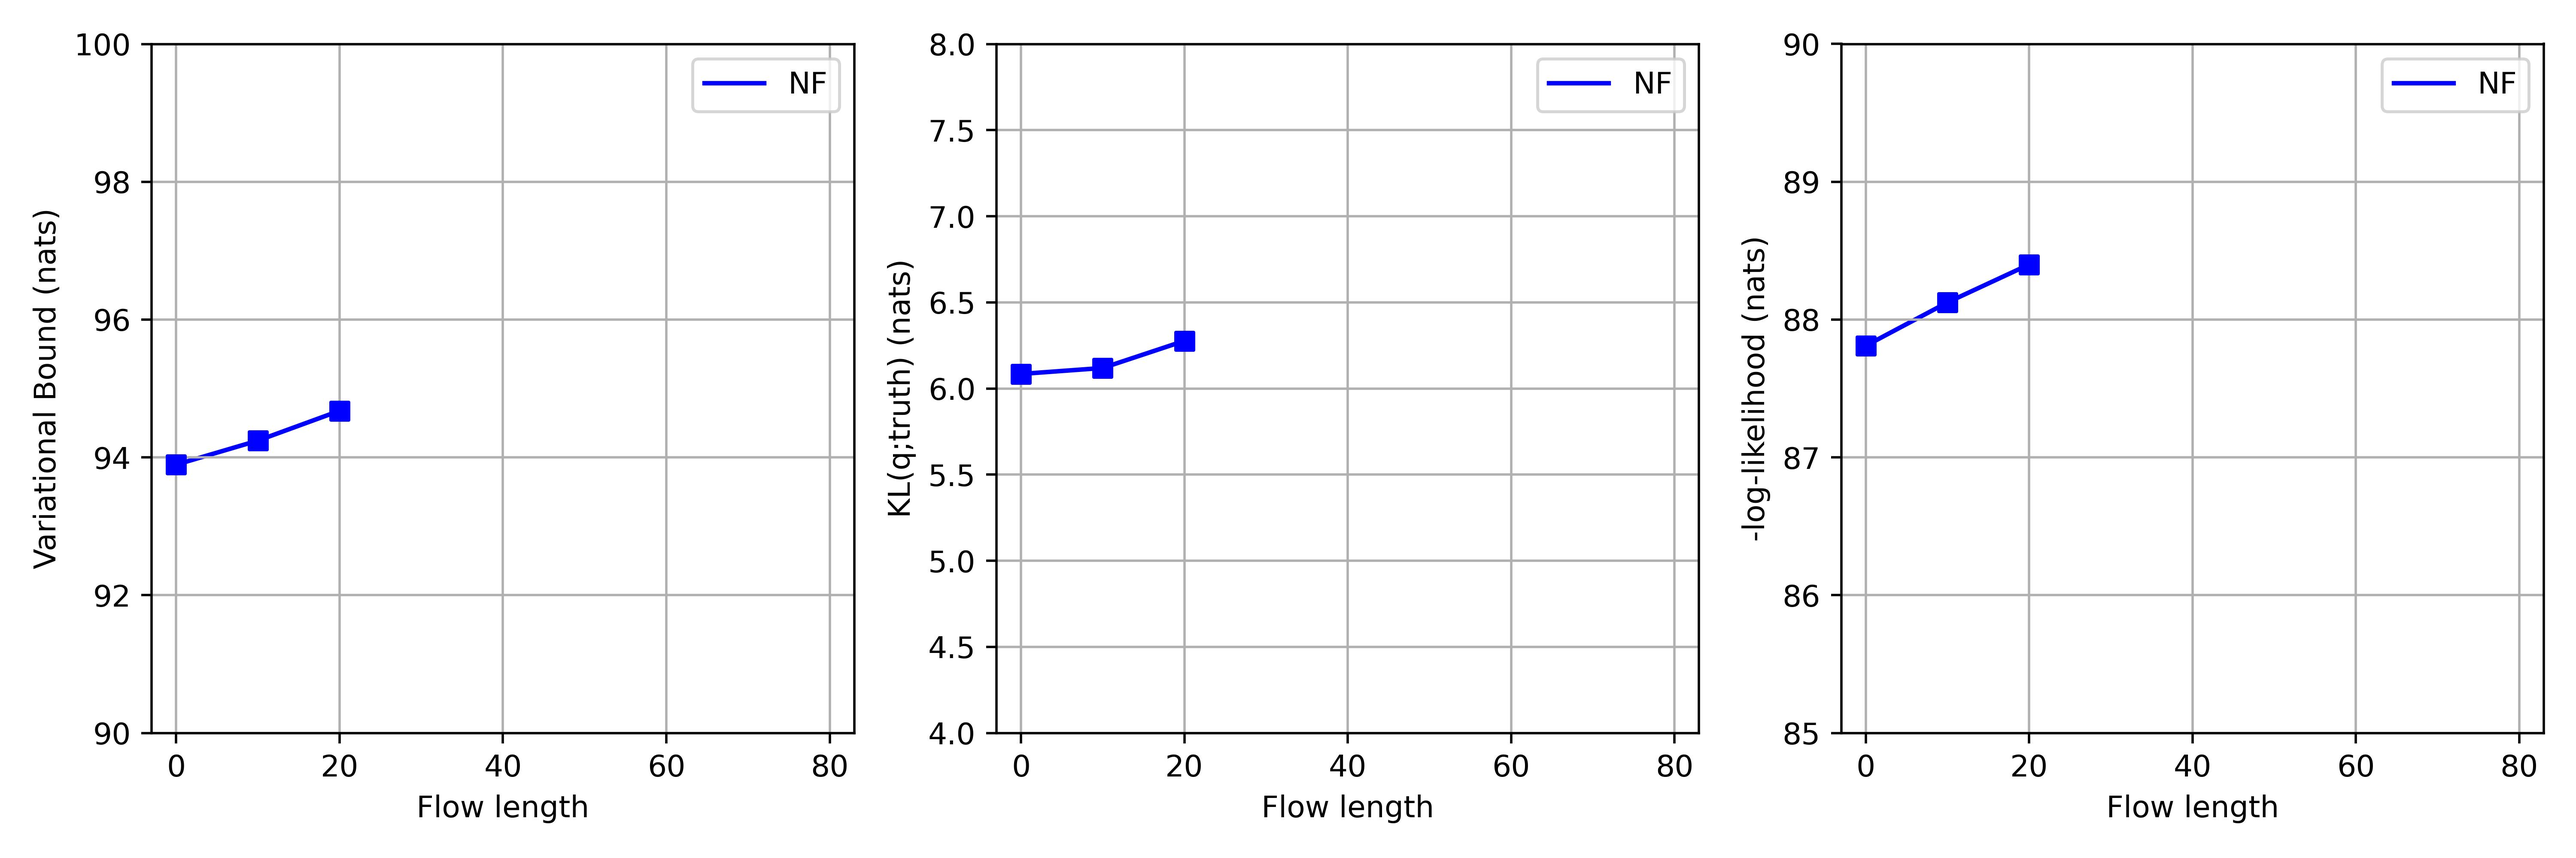
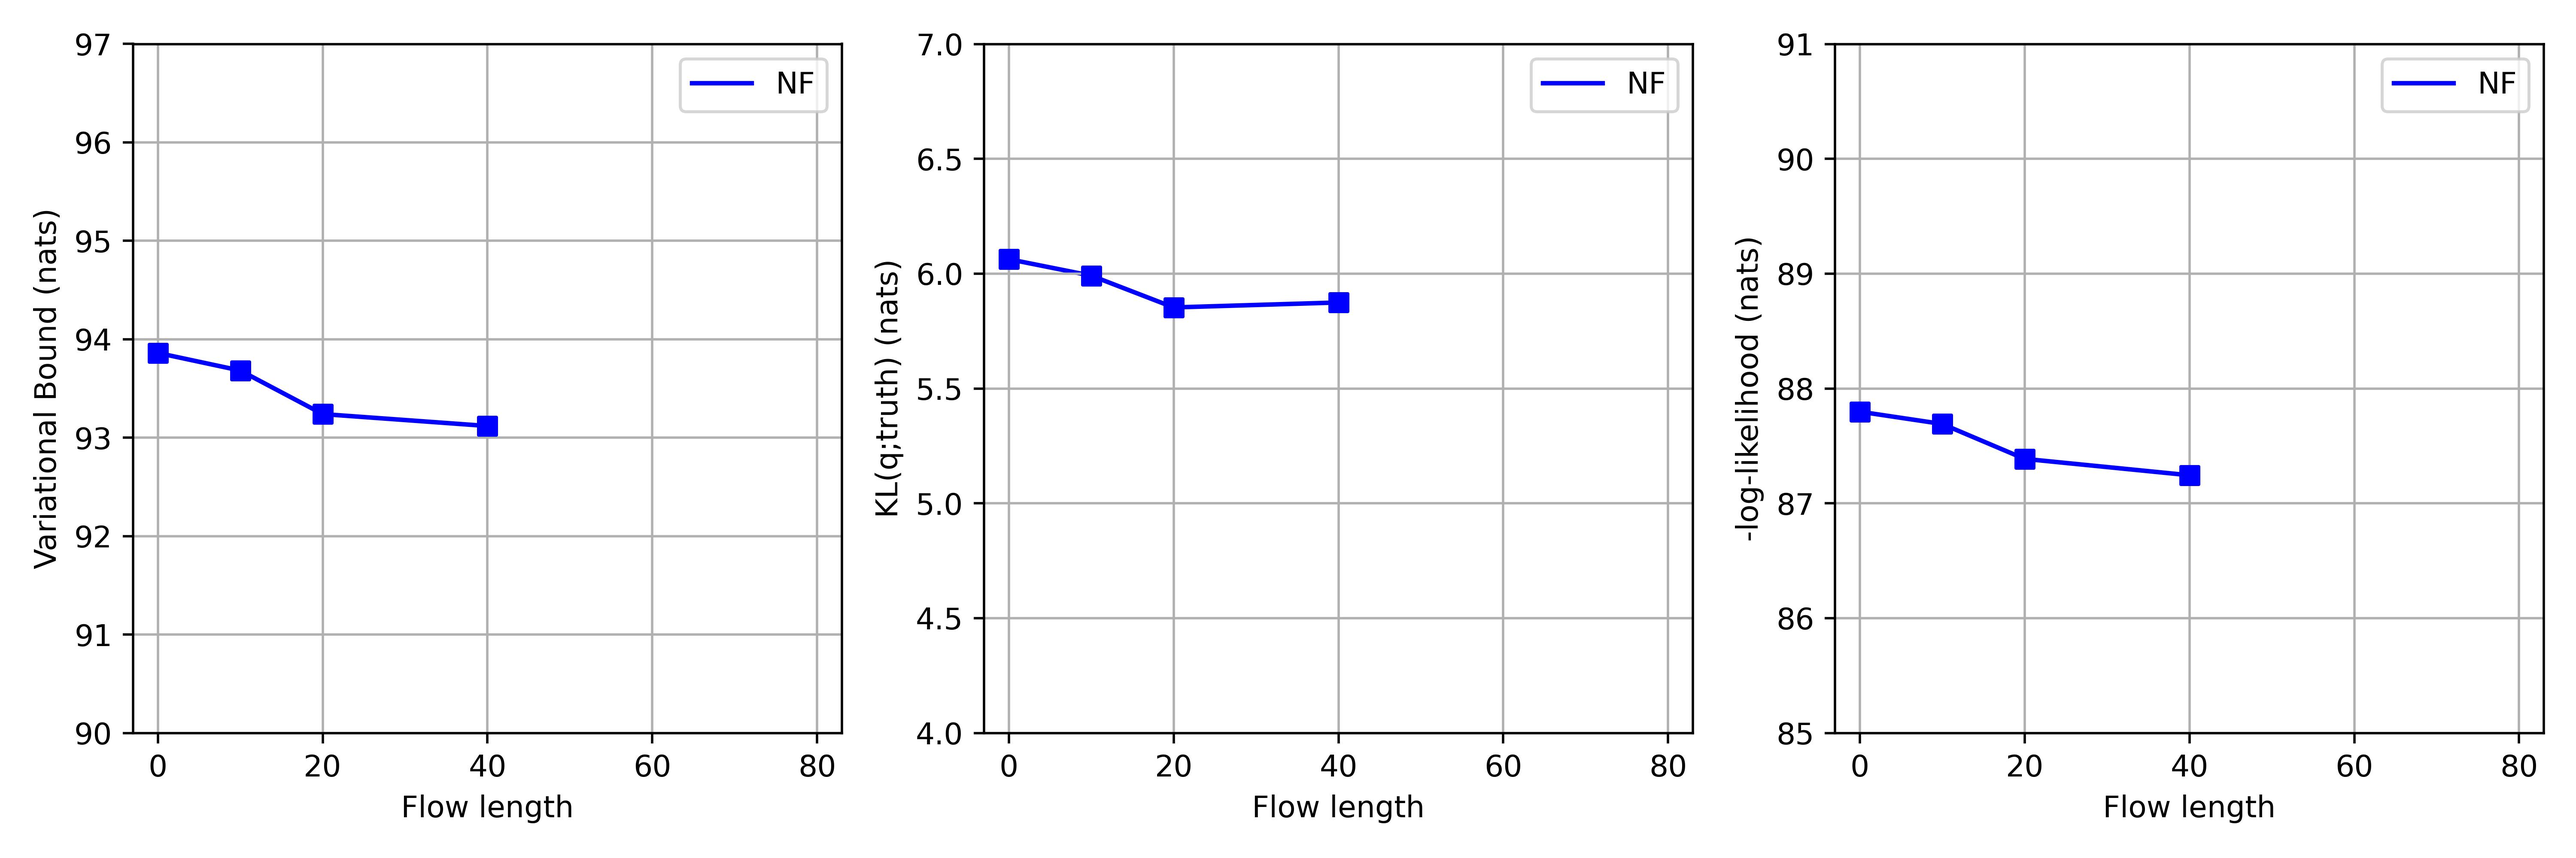
[Update] complete settings

diff --git a/subtasks/03_plot_result/exec.py b/subtasks/03_plot_result/exec.py
@@ -3,17 +3,17 @@ import matplotlib.pyplot as plt
 def main():
     plt.figure(figsize=(12, 4))
     margin = 3
-    flow_length = [0, 10, 20]
+    flow_length = [0, 10, 20, 40]
 
     # (1) Free Energy Bound vs Flow Length
     plt.subplot(1, 3, 1)
     plt.grid(zorder=0)
     plt.xlim([0-margin, 80+margin])
-    plt.ylim([90, 100])
+    plt.ylim([90, 97])
     plt.xlabel('Flow length')
     plt.ylabel('Variational Bound (nats)')
 
-    results = [93.894511, 94.243438, 94.676130]
+    results = [93.860907, 93.682114, 93.239948, 93.118923]
     plt.plot(flow_length, results, label='NF', color='blue', zorder=1)
     plt.scatter(flow_length, results, marker='s', color='blue', zorder=2)
     plt.legend()
@@ -22,11 +22,11 @@ def main():
     plt.subplot(1, 3, 3)
     plt.grid(zorder=0)
     plt.xlim([0-margin, 80+margin])
-    plt.ylim([85, 90])
+    plt.ylim([85, 91])
     plt.xlabel('Flow length')
     plt.ylabel('-log-likelihood (nats)')
 
-    results = [87.810139, 88.124440, 88.399779]
+    results = [87.797915, 87.690830, 87.387068, 87.244485]
     plt.plot(flow_length, results, label='NF', color='blue', zorder=1)
     plt.scatter(flow_length, results, marker='s', color='blue', zorder=2)
     plt.legend()
@@ -35,11 +35,11 @@ def main():
     plt.subplot(1, 3, 2)
     plt.grid(zorder=0)
     plt.xlim([0-margin, 80+margin])
-    plt.ylim([4, 8])
+    plt.ylim([4, 7])
     plt.xlabel('Flow length')
     plt.ylabel('KL(q;truth) (nats)')
 
-    results = [6.084372, 6.118998, 6.276352]
+    results = [6.062992, 5.991284, 5.852880, 5.874438]
     plt.plot(flow_length, results, label='NF', color='blue', zorder=1)
     plt.scatter(flow_length, results, marker='s', color='blue', zorder=2)
     plt.legend()
